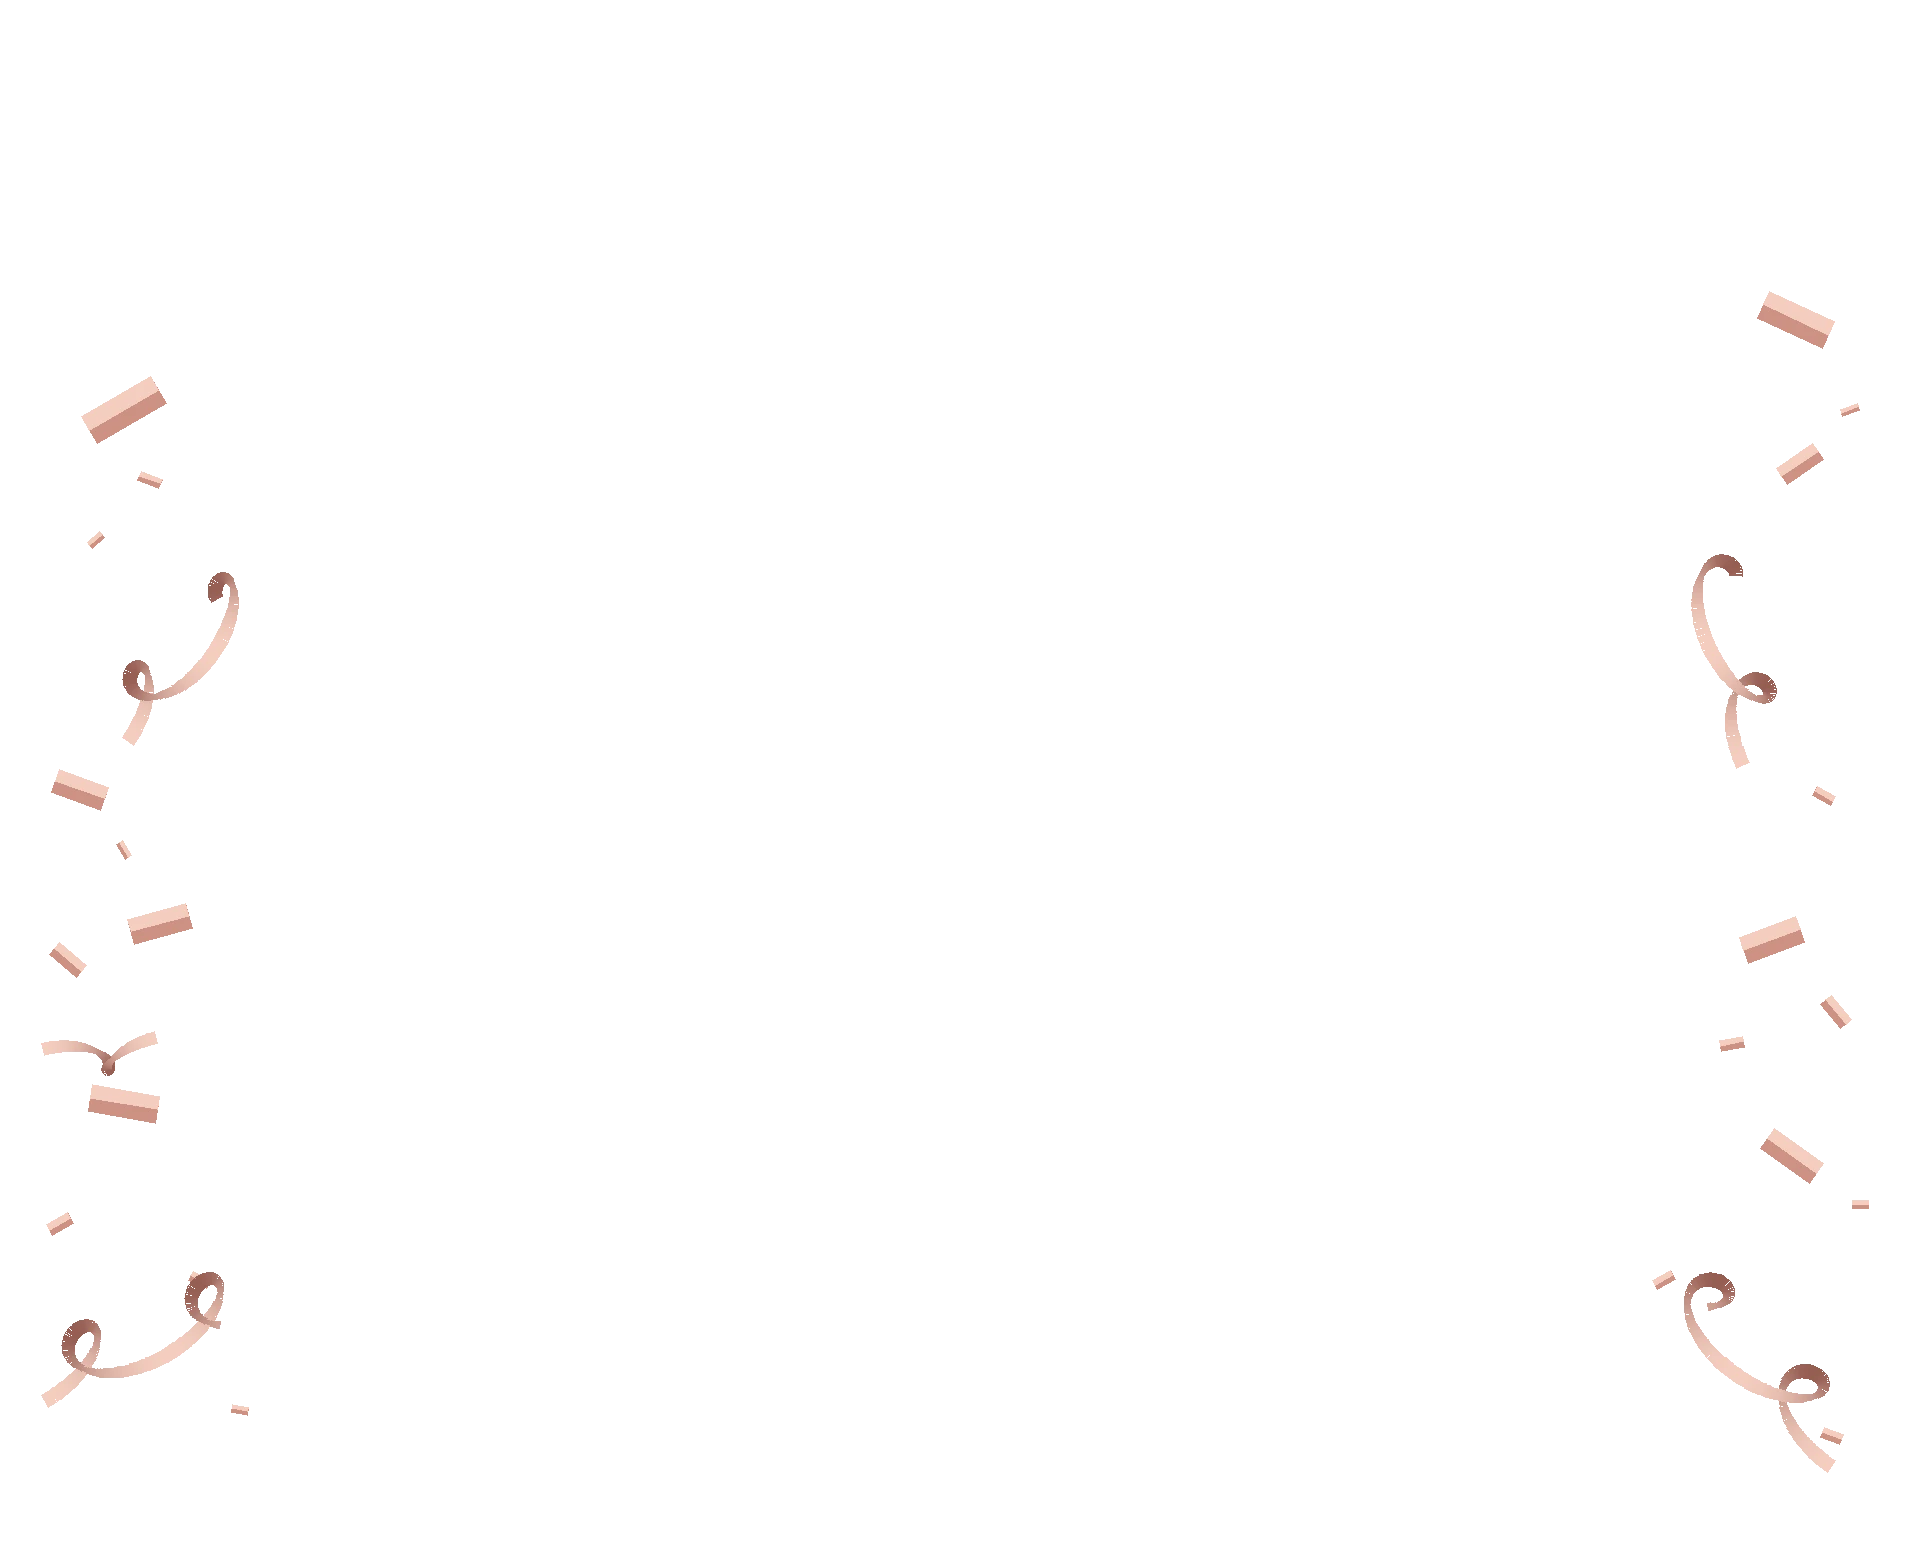
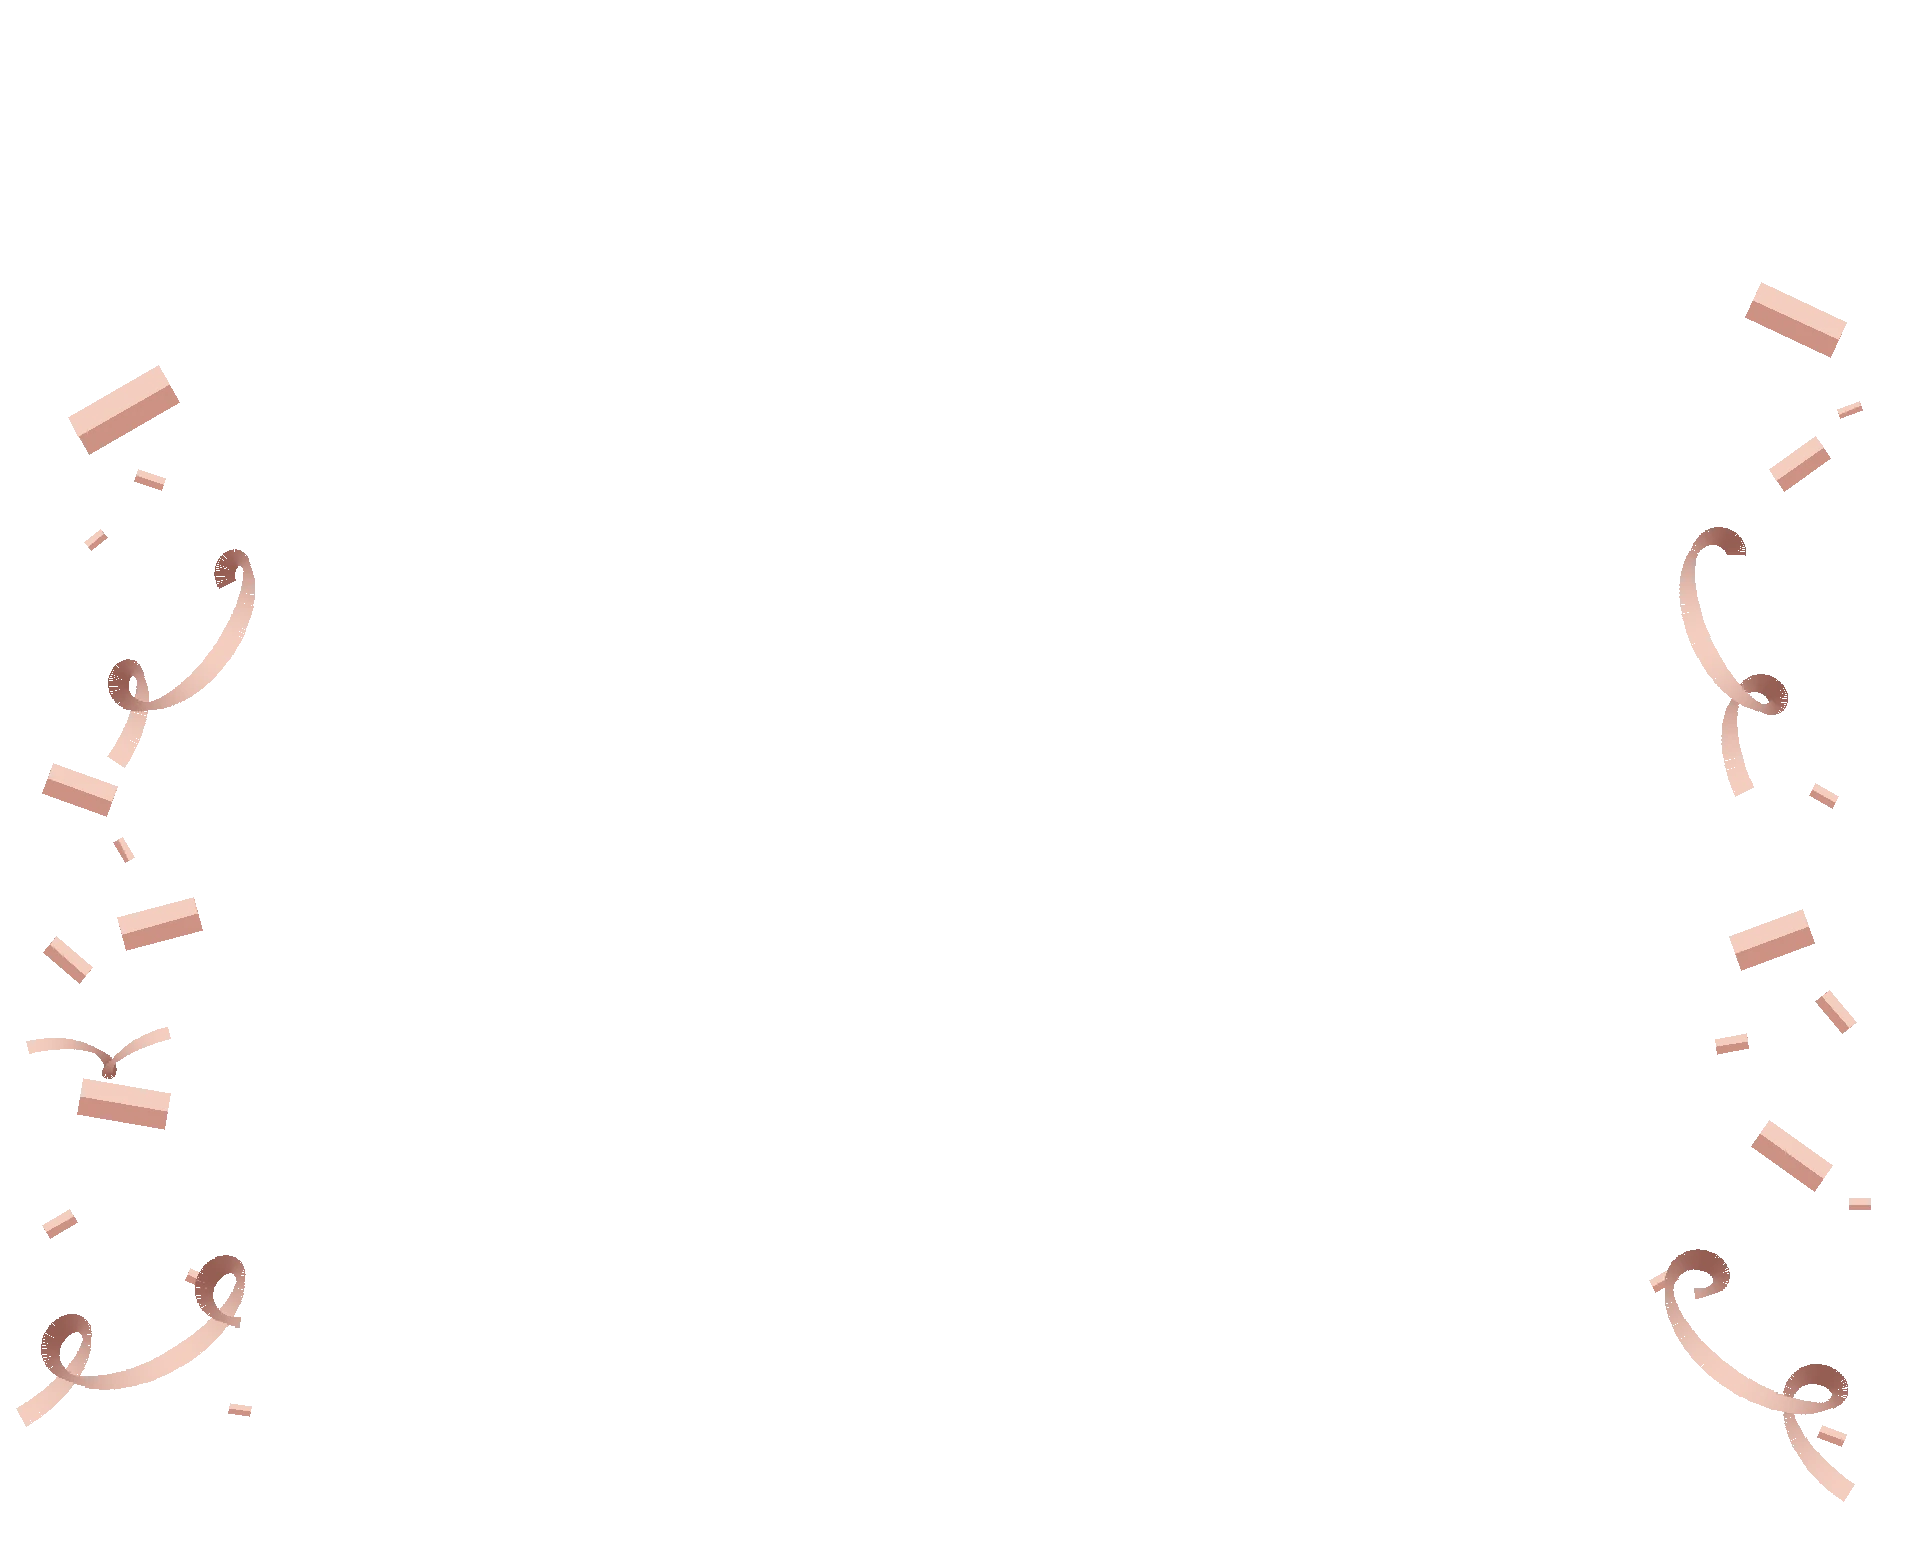
fix: FVの日付を少し小さく下げて、紙吹雪を大きめに

diff --git a/index-pink.html b/index-pink.html
@@ -761,7 +761,7 @@ body{padding-bottom:calc(58px + env(safe-area-inset-bottom,0px))}
 .neon-top{padding-top:clamp(10px,3vw,18px)}
 .fv-note{position:relative;z-index:2;margin:0 0 clamp(8px,3vw,18px);text-align:center;font-size:clamp(9px,2.6vw,13px);letter-spacing:.06em;line-height:1.5;color:rgba(255,255,255,.88)}
 .sign-logo{filter:drop-shadow(0 0 6px rgba(255,255,255,.55))}
-.fv-date{position:relative;z-index:2;margin:-9% 0 0;text-align:center;white-space:nowrap;font:600 min(5.4vw,31px)/1.2 var(--num);letter-spacing:.03em;color:#fff;text-shadow:0 0 6px rgba(255,61,127,.9),0 0 16px rgba(255,61,127,.55)}
+.fv-date{position:relative;z-index:2;margin:-5% 0 0;text-align:center;white-space:nowrap;font:600 min(4.6vw,27px)/1.2 var(--num);letter-spacing:.03em;color:#fff;text-shadow:0 0 6px rgba(255,61,127,.9),0 0 16px rgba(255,61,127,.55)}
 .fv-date small{font:700 .78em/1 "Noto Sans JP",sans-serif;margin:0 .06em}
 .fv-date span{margin:0 .1em}
 .neon-top + .fv{margin-top:5%}
@@ -802,7 +802,7 @@ body{padding-bottom:calc(58px + env(safe-area-inset-bottom,0px))}
 
 <!-- ▼ FV -->
 <div class="fv-wrap">
-<img class="fv-confetti" src="images/fv-confetti.webp" alt="" width="1910" height="1560" aria-hidden="true">
+<img class="fv-confetti" src="images/fv-confetti.webp?v=3" alt="" width="1910" height="1560" aria-hidden="true">
 <!-- ▼ 黒地のネオン看板 -->
 <div class="neon-top">
   <p class="fv-note">※予告なくサービス内容を変更させていただく場合がございます。</p>
